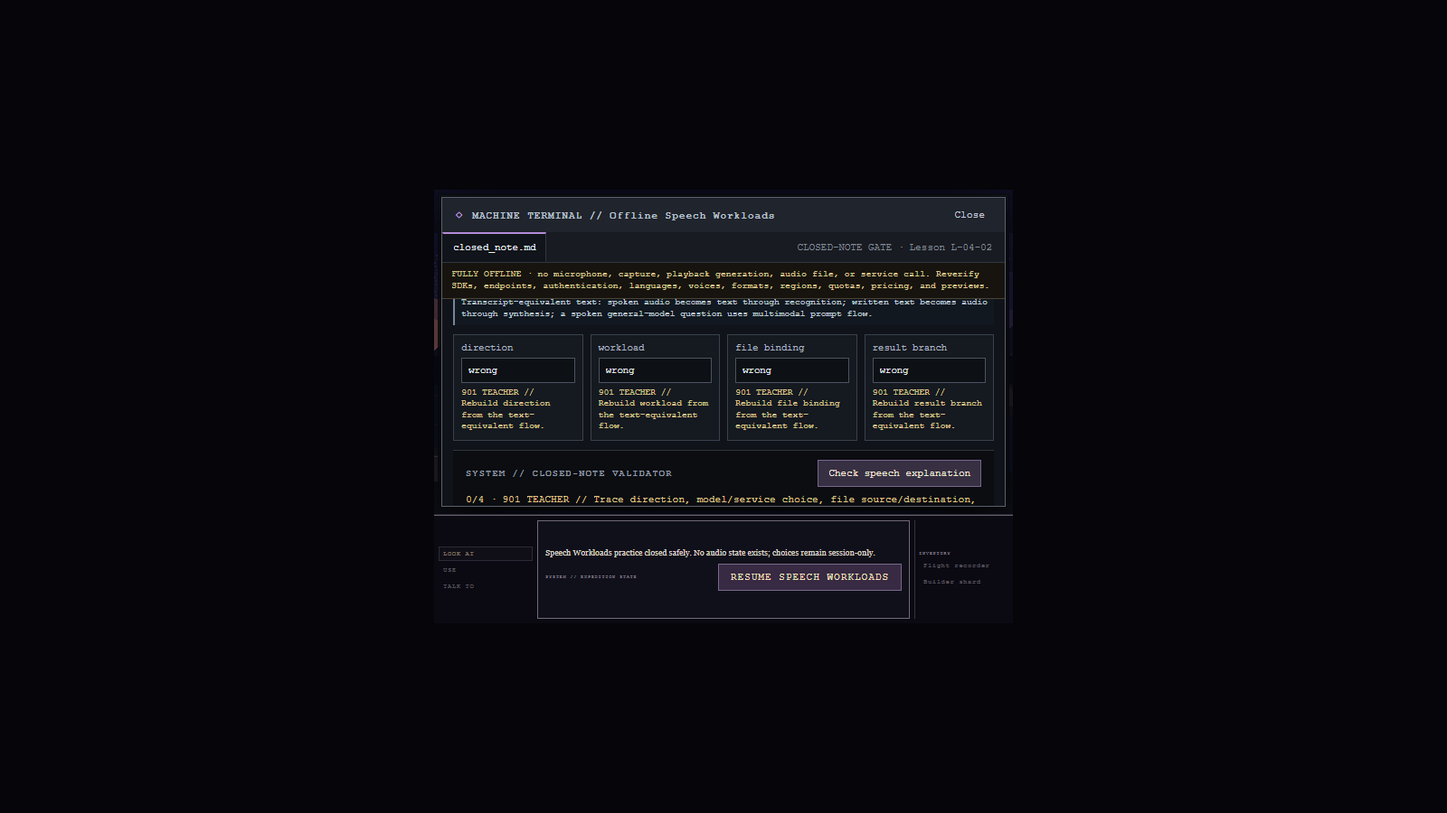
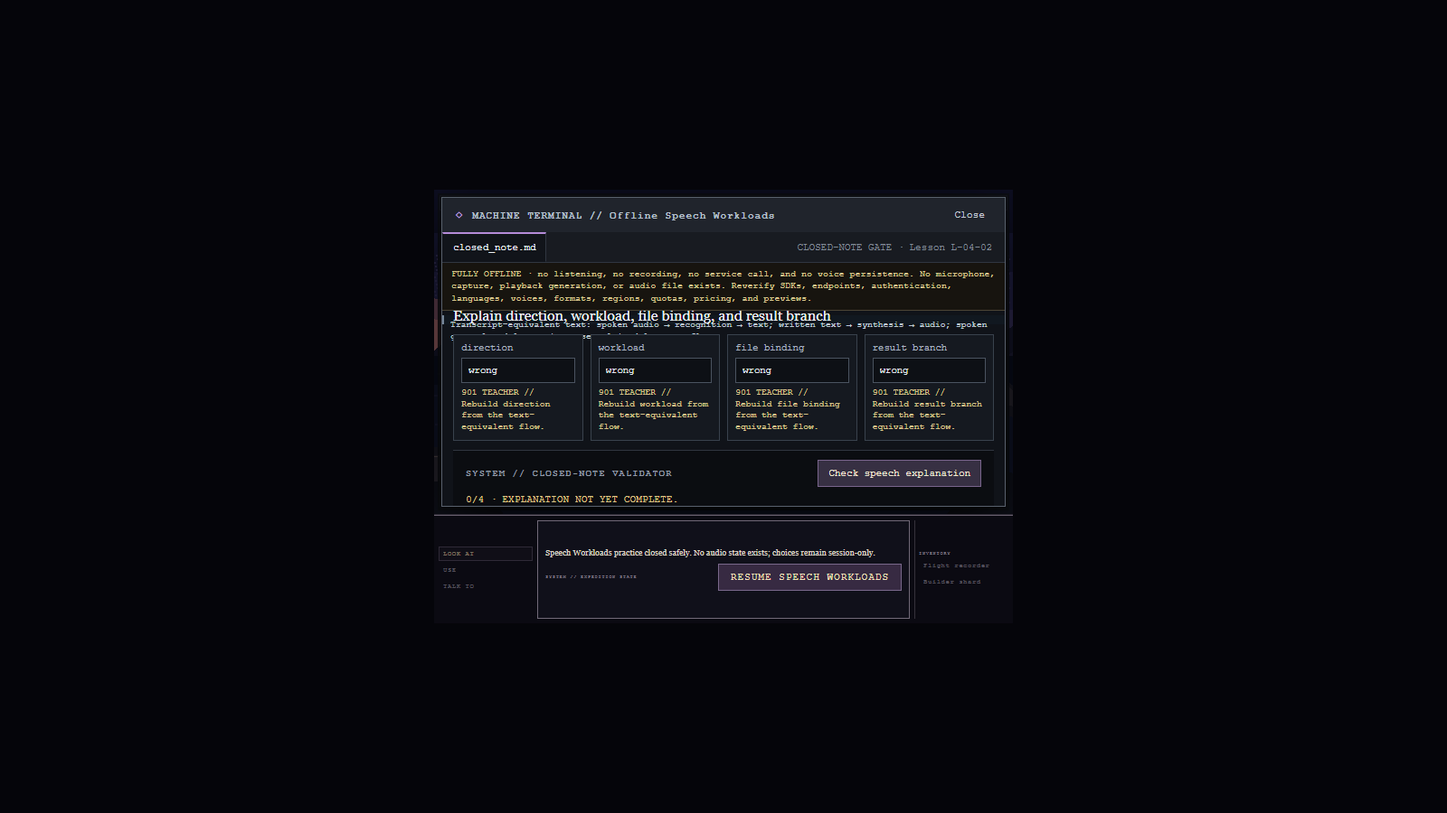
Round 14 step 5 Exercise Agent checkpoint

diff --git a/horizon-archive-game/src/App.jsx b/horizon-archive-game/src/App.jsx
@@ -147,12 +147,13 @@ import {
 import {
   evaluateSpeechExplanation,
   evaluateSpeechScenario,
+  getSpeechExplanationFeedback,
+  getSpeechFeedback,
   getSpeechOptions,
   sanitizeSpeechEvidence,
   speechDimensions,
   speechExplanationDimensions,
   speechPrimaryScenarios,
-  speechRemediation,
   speechTransferScenarios,
   speechWorkloadExercise,
   updateSpeechEvidence,
@@ -393,6 +394,7 @@ export function App() {
   const focusContinueAfterControlRef = useRef(false);
   const focusContinueAfterClientRef = useRef(false);
   const focusContinueAfterTextRef = useRef(false);
+  const focusContinueAfterSpeechRef = useRef(false);
 
   function setDialogue(text, owner = "pilot") {
     setDialogueText(text);
@@ -481,6 +483,12 @@ export function App() {
     continueButtonRef.current?.focus({ preventScroll: true });
   }, [terminalOpen, pendingAdvance, textAnalysisEvidence?.masteryStatus]);
 
+  useLayoutEffect(() => {
+    if (!focusContinueAfterSpeechRef.current || terminalOpen || !pendingAdvance || speechEvidence?.masteryStatus !== "mastered") return;
+    focusContinueAfterSpeechRef.current = false;
+    continueButtonRef.current?.focus({ preventScroll: true });
+  }, [terminalOpen, pendingAdvance, speechEvidence?.masteryStatus]);
+
   function beginNewGame() {
     localStorage.removeItem(SAVE_KEY);
     setSceneIndex(0);
@@ -553,6 +561,7 @@ export function App() {
     if (saved.textAnalysisEvidence?.masteryStatus === "mastered") focusContinueAfterTextRef.current = true;
     setTextAnalysisEvidence(saved.textAnalysisEvidence);
     setTextAnalysisSession(null);
+    if (saved.speechEvidence?.masteryStatus === "mastered") focusContinueAfterSpeechRef.current = true;
     setSpeechEvidence(saved.speechEvidence);
     setSpeechSession(null);
     setResponsibleAIEvidence(saved.responsibleAIEvidence);
@@ -1208,7 +1217,7 @@ export function App() {
   function advanceSpeech() { if (!speechSession.result?.passed) return; const scenarios = speechSession.form === "transfer" ? speechTransferScenarios : speechPrimaryScenarios; if (speechSession.index === scenarios.length - 1) { if (speechSession.form === "transfer") { setSpeechEvidence((previous) => updateSpeechEvidence(previous, { form: "explanation", masteryStatus: "transfer_complete", clearMisconceptionTags: true })); setSpeechSession({ ...speechSession, form: "explanation", phase: "explanation", result: null, hintLevel: 0 }); } else setSpeechSession({ ...speechSession, complete: true }); return; } setSpeechSession({ ...speechSession, index: speechSession.index + 1, response: { decision: "", reason: "" }, result: null, hintLevel: 0 }); }
   function acknowledgeSpeechPrimary() { if (!speechSession?.complete || !speechEvidence?.confidence) return; setSpeechEvidence((previous) => updateSpeechEvidence(previous, { form: "transfer", masteryStatus: "primary_complete", clearMisconceptionTags: true })); setSpeechSession(null); setTerminalOpen(false); setRuinsTerminalKind(null); setDialogue("Speech Workloads primary form complete at 12 of 12. Fresh transfer and closed-note explanation remain.", "teacher"); }
   function checkSpeechExplanation(event) { event.preventDefault(); const result = evaluateSpeechExplanation(speechSession.explanationResponse); setSpeechSession({ ...speechSession, explanationResult: result }); setSpeechEvidence((previous) => updateSpeechEvidence(previous, { form: "explanation", scenarioId: "explanation", correctness: result.correctness, incrementAttempt: true, masteryStatus: "transfer_complete" })); }
-  function acknowledgeSpeechMastery() { if (!speechSession?.explanationResult?.passed || !speechSession.ownershipConfirmed || !speechEvidence?.confidence) return; focusContinueAfterClientRef.current = true; setSpeechEvidence((previous) => updateSpeechEvidence(previous, { form: "explanation", masteryStatus: "mastered", clearMisconceptionTags: true })); setSpeechSession(null); setTerminalOpen(false); setRuinsTerminalKind(null); setDialogue("Speech Workloads mastery confirmed: both 12-of-12 forms and closed-note explanation are complete.", "teacher"); }
+  function acknowledgeSpeechMastery() { if (!speechSession?.explanationResult?.passed || !speechSession.ownershipConfirmed || !speechEvidence?.confidence) return; focusContinueAfterSpeechRef.current = true; setSpeechEvidence((previous) => updateSpeechEvidence(previous, { form: "explanation", masteryStatus: "mastered", clearMisconceptionTags: true })); setSpeechSession(null); setTerminalOpen(false); setRuinsTerminalKind(null); setDialogue("Speech Workloads mastery confirmed: both 12-of-12 forms and closed-note explanation are complete.", "teacher"); }
 
   function validateEvidenceOutput(event) {
     event.preventDefault();
@@ -2057,12 +2066,12 @@ export function App() {
         )}
         {terminalOpen && scene.id === "ruins" && ruinsTerminalKind === "speech-workloads" && speechSession && (
           <TerminalShell exerciseId={speechWorkloadExercise.exercise_id} title="Offline Speech Workloads" filename={speechSession.phase === "explanation" ? "closed_note.md" : `${speechSession.form}_speech.json`} lessonId={speechWorkloadExercise.lesson_id} statusText={speechSession.phase === "explanation" ? "CLOSED-NOTE GATE" : `${speechSession.form.toUpperCase()} ${speechSession.index + 1}/6`} closeLabel="Exit Speech Workloads" restoreFocusTo={terminalTriggerRef.current} onClose={exitSpeechWorkloads}>
-            <section className="model-choice-workspace speech-workspace"><p className="model-choice-boundary">FULLY OFFLINE · no microphone, capture, playback generation, audio file, or service call. Reverify SDKs, endpoints, authentication, languages, voices, formats, regions, quotas, pricing, and previews.</p>
+            <section className="model-choice-workspace speech-workspace"><p id="speech-offline-warning" className="model-choice-boundary" role="note">FULLY OFFLINE · no listening, no recording, no service call, and no voice persistence. No microphone, capture, playback generation, or audio file exists. Reverify SDKs, endpoints, authentication, languages, voices, formats, regions, quotas, pricing, and previews.</p><p id="speech-transcript-equivalent" className="speech-transcript">Transcript-equivalent text: spoken audio → recognition → text; written text → synthesis → audio; spoken general-model questions use multimodal prompt flow.</p>
               {speechSession.phase === "explanation" ? (
-                <form className="model-choice-form" onSubmit={checkSpeechExplanation}><header><p className="pane-label">PILOT // CLOSED-NOTE SPEECH-FLOW OWNER</p><h2>Explain direction, workload, file binding, and result branch</h2><p className="speech-transcript">Transcript-equivalent text: spoken audio becomes text through recognition; written text becomes audio through synthesis; a spoken general-model question uses multimodal prompt flow.</p></header><div className="model-choice-fields speech-explanation">{speechExplanationDimensions.map((dimension) => { const fieldResult = speechSession.explanationResult?.correctness[dimension]; const id = `speech-explanation-${dimension}-feedback`; return <label key={dimension}><span>{dimension.replaceAll("_", " ")}</span><input aria-label={`Closed-note speech ${dimension}`} aria-invalid={speechSession.explanationResult ? !fieldResult : undefined} aria-describedby={speechSession.explanationResult ? id : undefined} autoComplete="off" value={speechSession.explanationResponse[dimension]} onChange={(event) => setSpeechSession({ ...speechSession, explanationResponse: { ...speechSession.explanationResponse, [dimension]: event.target.value }, explanationResult: null, ownershipConfirmed: false })} />{speechSession.explanationResult && <small id={id}>{fieldResult ? "SYSTEM // Dimension confirmed." : `901 TEACHER // Rebuild ${dimension.replaceAll("_", " ")} from the text-equivalent flow.`}</small>}</label>; })}</div><section className="terminal-console model-choice-output"><div className="console-heading-row"><strong>SYSTEM // CLOSED-NOTE VALIDATOR</strong><button className="run-action" type="submit" disabled={speechExplanationDimensions.some((key) => !speechSession.explanationResponse[key])}>Check speech explanation</button></div><div className={speechSession.explanationResult ? "console-feedback active" : "console-feedback"} role="status" aria-live="polite">{speechSession.explanationResult ? `${speechSession.explanationResult.score}/4 · ${speechSession.explanationResult.passed ? "Complete speech-flow explanation confirmed." : "901 TEACHER // Trace direction, model/service choice, file source/destination, and cancellation."}` : "No audio, path, transcript, prompt, service response, or answer choice is shown."}</div>{speechSession.explanationResult?.passed && <><label className="ownership-confirmation"><input type="checkbox" checked={speechSession.ownershipConfirmed} onChange={(event) => setSpeechSession({ ...speechSession, ownershipConfirmed: event.target.checked })} />I produced this speech-flow explanation myself without notes.</label><fieldset className="confidence-group"><legend>Confidence after both forms</legend>{["low", "medium", "high"].map((value) => <label key={value}><input type="radio" name="speech-confidence" checked={speechEvidence?.confidence === value} onChange={() => setSpeechEvidence((previous) => updateSpeechEvidence(previous, { confidence: value }))} />{value}</label>)}</fieldset><button className="confirm-action" type="button" disabled={!speechSession.ownershipConfirmed || !speechEvidence?.confidence} onClick={acknowledgeSpeechMastery}>Acknowledge strict mastery</button></>}</section></form>
+                <form className="model-choice-form" onSubmit={checkSpeechExplanation}><header><p className="pane-label">PILOT // CLOSED-NOTE SPEECH-FLOW OWNER</p><h2>Explain direction, workload, file binding, and result branch</h2></header><div className="model-choice-fields speech-explanation">{speechExplanationDimensions.map((dimension) => { const fieldResult = speechSession.explanationResult?.correctness[dimension]; const id = `speech-explanation-${dimension}-feedback`; return <label key={dimension}><span>{dimension.replaceAll("_", " ")}</span><input aria-label={`Closed-note speech ${dimension}`} aria-invalid={speechSession.explanationResult ? !fieldResult : undefined} aria-describedby={speechSession.explanationResult ? id : undefined} autoComplete="off" value={speechSession.explanationResponse[dimension]} onChange={(event) => setSpeechSession({ ...speechSession, explanationResponse: { ...speechSession.explanationResponse, [dimension]: event.target.value }, explanationResult: null, ownershipConfirmed: false })} />{speechSession.explanationResult && <small id={id}>{fieldResult ? "SYSTEM // Dimension confirmed." : `901 TEACHER // Rebuild ${dimension.replaceAll("_", " ")} from the text-equivalent flow.`}</small>}</label>; })}</div><section className="terminal-console model-choice-output"><div className="console-heading-row"><strong>SYSTEM // CLOSED-NOTE VALIDATOR</strong><button className="run-action" type="submit" disabled={speechExplanationDimensions.some((key) => !speechSession.explanationResponse[key])}>Check speech explanation</button></div><div className={speechSession.explanationResult ? "console-feedback active" : "console-feedback"} role="status" aria-live="polite">{getSpeechExplanationFeedback(speechSession.explanationResult).systemScore}</div>{getSpeechExplanationFeedback(speechSession.explanationResult).teacherRemediation && <p className="teacher-remediation"><strong>901 TEACHER // DIRECTION AND CANCELLATION REMEDIATION</strong><span>{getSpeechExplanationFeedback(speechSession.explanationResult).teacherRemediation}</span></p>}{speechSession.explanationResult?.passed && <><label className="ownership-confirmation"><input type="checkbox" checked={speechSession.ownershipConfirmed} onChange={(event) => setSpeechSession({ ...speechSession, ownershipConfirmed: event.target.checked })} />I produced this speech-flow explanation myself without notes.</label><fieldset className="confidence-group"><legend>Confidence after both forms</legend>{["low", "medium", "high"].map((value) => <label key={value}><input type="radio" name="speech-confidence" checked={speechEvidence?.confidence === value} onChange={() => setSpeechEvidence((previous) => updateSpeechEvidence(previous, { confidence: value }))} />{value}</label>)}</fieldset><button className="confirm-action" type="button" disabled={!speechSession.ownershipConfirmed || !speechEvidence?.confidence} onClick={acknowledgeSpeechMastery}>Acknowledge strict mastery</button></>}</section></form>
               ) : speechSession.complete ? (
                 <section className="workload-summary"><p className="pane-label">901 TEACHER // PRIMARY FORM COMPLETE</p><h2>12 / 12 dimensions</h2><p>Recognition, synthesis, spoken multimodal prompts, input/output files, and cancellation handling pass. Fresh transfer and closed-note explanation remain.</p><fieldset className="confidence-group"><legend>Confidence after primary form</legend>{["low", "medium", "high"].map((value) => <label key={value}><input type="radio" name="speech-primary-confidence" checked={speechEvidence?.confidence === value} onChange={() => setSpeechEvidence((previous) => updateSpeechEvidence(previous, { confidence: value }))} />{value}</label>)}</fieldset><button className="confirm-action" type="button" disabled={!speechEvidence?.confidence} onClick={acknowledgeSpeechPrimary}>Acknowledge primary form</button></section>
-              ) : (() => { const scenarios = speechSession.form === "transfer" ? speechTransferScenarios : speechPrimaryScenarios; const scenario = scenarios[speechSession.index]; const options = getSpeechOptions(scenario.id, speechSession.form); return <form className="model-choice-form" onSubmit={checkSpeech}><header><p className="pane-label">{speechSession.form === "transfer" ? "FRESH TRANSFER" : "PRIMARY"} · PILOT // SPEECH-FLOW OWNER · {scenario.id}</p><p className="model-choice-layer-labels">AUDIO → TEXT · TEXT → AUDIO · SPOKEN MULTIMODAL PROMPT · RESULT/CANCELLATION</p><h2>{scenario.prompt}</h2><p className="speech-transcript">Transcript-equivalent scenario text: {scenario.prompt}</p></header><div className="model-choice-fields">{speechDimensions.map((dimension) => { const fieldResult = speechSession.result?.correctness[dimension]; const id = `speech-${dimension}-feedback`; return <label key={dimension}><span>{dimension}</span><select aria-label={`Speech ${dimension}`} aria-invalid={speechSession.result ? !fieldResult : undefined} aria-describedby={speechSession.result ? id : undefined} value={speechSession.response[dimension]} onChange={(event) => setSpeechSession({ ...speechSession, response: { ...speechSession.response, [dimension]: event.target.value }, result: null })}><option value="">Choose one</option>{options[dimension].map((value) => <option key={value} value={value}>{formatChoice(value)}</option>)}</select>{speechSession.result && <small id={id}>{fieldResult ? "SYSTEM // Correct." : `901 TEACHER // Review the ${dimension} from direction, file binding, and result reason.`}</small>}</label>; })}</div><section className="terminal-console model-choice-output"><div className="console-heading-row"><strong>SYSTEM // STRICT 12-DIMENSION VALIDATOR</strong><button className="run-action" type="submit" disabled={speechDimensions.some((key) => !speechSession.response[key])}>Check speech choice</button></div><div className={speechSession.result ? "console-feedback active" : "console-feedback"} role="status" aria-live="polite">{speechSession.result ? `${speechSession.result.score}/2 · ${speechSession.result.passed ? "Choice confirmed." : speechRemediation(scenario, speechSession.result, speechSession.hintLevel)}` : "Choose capability first, then source/destination and success/cancellation handling."}</div>{speechSession.result && !speechSession.result.passed && <button className="hint-action" type="button" disabled={speechSession.hintLevel >= 3} onClick={revealSpeechHint}>Reveal next speech-flow contrast</button>}{speechSession.result?.passed && <button className="confirm-action" type="button" onClick={advanceSpeech}>{speechSession.index === 5 ? (speechSession.form === "transfer" ? "Begin closed-note explanation" : "View primary result") : "Next scenario"}</button>}</section></form>; })()}
+              ) : (() => { const scenarios = speechSession.form === "transfer" ? speechTransferScenarios : speechPrimaryScenarios; const scenario = scenarios[speechSession.index]; const options = getSpeechOptions(scenario.id, speechSession.form); const feedback = getSpeechFeedback(scenario, speechSession.result, speechSession.hintLevel); return <form className="model-choice-form" onSubmit={checkSpeech}><header><p className="pane-label">{speechSession.form === "transfer" ? "FRESH TRANSFER" : "PRIMARY"} · PILOT // SPEECH-FLOW OWNER · {scenario.id}</p><p className="model-choice-layer-labels">AUDIO → TEXT · TEXT → AUDIO · SPOKEN MULTIMODAL PROMPT · RESULT/CANCELLATION</p><h2>{scenario.prompt}</h2><p className="speech-transcript">Transcript-equivalent scenario text: {scenario.prompt}</p></header><div className="model-choice-fields">{speechDimensions.map((dimension) => { const fieldResult = speechSession.result?.correctness[dimension]; const id = `speech-${dimension}-feedback`; return <label key={dimension}><span>{dimension}</span><select aria-label={`Speech ${dimension}`} aria-invalid={speechSession.result ? !fieldResult : undefined} aria-describedby={speechSession.result ? id : undefined} value={speechSession.response[dimension]} onChange={(event) => setSpeechSession({ ...speechSession, response: { ...speechSession.response, [dimension]: event.target.value }, result: null })}><option value="">Choose one</option>{options[dimension].map((value) => <option key={value} value={value}>{formatChoice(value)}</option>)}</select>{speechSession.result && <small id={id}>{fieldResult ? "SYSTEM // Correct." : `901 TEACHER // Review the ${dimension} from direction, file binding, and result reason.`}</small>}</label>; })}</div><section className="terminal-console model-choice-output"><div className="console-heading-row"><strong>SYSTEM // STRICT 12-DIMENSION VALIDATOR</strong><button className="run-action" type="submit" disabled={speechDimensions.some((key) => !speechSession.response[key])}>Check speech choice</button></div><div className={speechSession.result ? "console-feedback active" : "console-feedback"} role="status" aria-live="polite">{feedback.systemScore}</div>{feedback.teacherRemediation && <p className="teacher-remediation"><strong>901 TEACHER // SPEECH-FLOW REMEDIATION</strong><span>{feedback.teacherRemediation}</span></p>}{speechSession.result && !speechSession.result.passed && <button className="hint-action" type="button" disabled={speechSession.hintLevel >= 3} onClick={revealSpeechHint}>Reveal next speech-flow contrast</button>}{speechSession.result?.passed && <button className="confirm-action" type="button" onClick={advanceSpeech}>{speechSession.index === 5 ? (speechSession.form === "transfer" ? "Begin closed-note explanation" : "View primary result") : "Next scenario"}</button>}</section></form>; })()}
             </section>
           </TerminalShell>
         )}

diff --git a/horizon-archive-game/src/speechWorkloadExercise.js b/horizon-archive-game/src/speechWorkloadExercise.js
@@ -9,6 +9,8 @@ export function evaluateSpeechScenario(id, response, form = id?.startsWith("T") 
 function norm(v) { return String(v ?? "").trim().toLowerCase().replace(/[^a-z0-9]+/g, "_").replace(/^_|_$/g, ""); }
 export function evaluateSpeechExplanation(response) { const e = { direction: "spoken_audio_to_text_is_recognition_text_to_audio_is_synthesis", workload: "spoken_general_model_question_is_multimodal_prompt_flow", file_binding: "recognition_reads_input_file_synthesis_writes_output_file", result_branch: "inspect_result_reason_handle_success_or_cancellation" }; const correctness = Object.fromEntries(speechExplanationDimensions.map((k) => [k, norm(response[k]) === e[k]])); return { correctness, score: Object.values(correctness).filter(Boolean).length, passed: Object.values(correctness).every(Boolean) }; }
 export function speechRemediation(s, r, l) { const missed = speechDimensions.filter((k) => !r.correctness[k]); if (l <= 1) return `Review ${missed.join(" and ")}: name input modality and required output.`; if (l === 2) return `Contrast Speech direction with deployed multimodal interaction for this ${s.topic.replaceAll("_", " ")} card.`; return "Trace input-file versus output-file direction, then branch on success or cancellation."; }
+export function getSpeechFeedback(s, r, l) { if (!r) return { systemScore: "Awaiting both speech-flow dimensions.", teacherRemediation: null }; return { systemScore: `${r.score}/2 · ${r.passed ? "CHOICE PASS · both dimensions confirmed." : "CHOICE NOT YET COMPLETE."}`, teacherRemediation: r.passed ? null : speechRemediation(s, r, l) }; }
+export function getSpeechExplanationFeedback(r) { if (!r) return { systemScore: "Awaiting the learner's four-part speech flow.", teacherRemediation: null }; return { systemScore: `${r.score}/4 · ${r.passed ? "EXPLANATION PASS · all four dimensions confirmed." : "EXPLANATION NOT YET COMPLETE."}`, teacherRemediation: r.passed ? null : "Trace direction, model/service choice, file source/destination, and success or cancellation." }; }
 function complete(c, scenarios) { return scenarios.every((s) => speechDimensions.every((k) => c[s.id]?.[k] === true)); }
 export function sanitizeSpeechEvidence(v) { if (!v || typeof v !== "object" || v.exerciseId !== exerciseAsset.exercise_id) return null; const dimensionCorrectness = {}; for (const s of [...all, { id: "explanation", dimensions: speechExplanationDimensions }]) { const keys = s.dimensions || speechDimensions; if (v.dimensionCorrectness?.[s.id]) dimensionCorrectness[s.id] = Object.fromEntries(keys.filter((k) => typeof v.dimensionCorrectness[s.id][k] === "boolean").map((k) => [k, v.dimensionCorrectness[s.id][k]])); } const strict = complete(dimensionCorrectness, speechPrimaryScenarios) && complete(dimensionCorrectness, speechTransferScenarios) && speechExplanationDimensions.every((k) => dimensionCorrectness.explanation?.[k] === true); let masteryStatus = ["in_progress", "remediation_required", "primary_complete", "transfer_complete", "mastered"].includes(v.masteryStatus) ? v.masteryStatus : "in_progress"; if (masteryStatus === "mastered" && !strict) masteryStatus = complete(dimensionCorrectness, speechTransferScenarios) ? "transfer_complete" : complete(dimensionCorrectness, speechPrimaryScenarios) ? "primary_complete" : "in_progress"; return { exerciseId: exerciseAsset.exercise_id, lessonId: exerciseAsset.lesson_id, activityId: exerciseAsset.activity_id, assessmentIds: [...exerciseAsset.assessment_ids], objectiveIds: [...exerciseAsset.objective_ids], skillIds: [...exerciseAsset.skill_ids], form: ["primary", "transfer", "explanation"].includes(v.form) ? v.form : "primary", dimensionCorrectness, attemptCount: Math.min(99, Math.max(0, Number.isInteger(v.attemptCount) ? v.attemptCount : 0)), hintLevel: Math.min(3, Math.max(0, Number.isInteger(v.hintLevel) ? v.hintLevel : 0)), confidence: ["low", "medium", "high"].includes(v.confidence) ? v.confidence : null, misconceptionTags: Array.isArray(v.misconceptionTags) ? [...new Set(v.misconceptionTags.filter((t) => validTags.has(t)))] : [], masteryStatus }; }
 export function updateSpeechEvidence(previous, changes = {}) { const safe = sanitizeSpeechEvidence(previous) || sanitizeSpeechEvidence({ exerciseId: exerciseAsset.exercise_id }); const dimensionCorrectness = { ...safe.dimensionCorrectness }; if (changes.scenarioId && changes.correctness) dimensionCorrectness[changes.scenarioId] = changes.correctness; return sanitizeSpeechEvidence({ ...safe, form: changes.form || safe.form, dimensionCorrectness, attemptCount: safe.attemptCount + (changes.incrementAttempt ? 1 : 0), hintLevel: Math.max(safe.hintLevel, changes.hintLevel || 0), confidence: changes.confidence || safe.confidence, misconceptionTags: changes.clearMisconceptionTags ? [] : [...safe.misconceptionTags, ...(changes.misconceptionTags || [])], masteryStatus: changes.masteryStatus || safe.masteryStatus }); }

diff --git a/horizon-archive-game/test/speechWorkloadExercise.test.js b/horizon-archive-game/test/speechWorkloadExercise.test.js
@@ -1,5 +1,7 @@
-import test from "node:test"; import assert from "node:assert/strict"; import primary from "../../curriculum/lessons/L-04-02/reference_primary_answers.json" with { type: "json" }; import transfer from "../../curriculum/lessons/L-04-02/reference_transfer_answers.json" with { type: "json" }; import { evaluateSpeechExplanation, evaluateSpeechScenario, sanitizeSpeechEvidence, speechPrimaryScenarios, speechTransferScenarios, updateSpeechEvidence } from "../src/speechWorkloadExercise.js";
+import test from "node:test"; import assert from "node:assert/strict"; import primary from "../../curriculum/lessons/L-04-02/reference_primary_answers.json" with { type: "json" }; import transfer from "../../curriculum/lessons/L-04-02/reference_transfer_answers.json" with { type: "json" }; import { evaluateSpeechExplanation, evaluateSpeechScenario, getSpeechExplanationFeedback, getSpeechFeedback, sanitizeSpeechEvidence, speechPrimaryScenarios, speechTransferScenarios, updateSpeechEvidence } from "../src/speechWorkloadExercise.js";
 test("both speech forms pass 12/12 with three workloads and safeguards", () => { for (const [form, scenarios, answers] of [["primary", speechPrimaryScenarios, primary], ["transfer", speechTransferScenarios, transfer]]) { assert.equal(scenarios.length, 6); assert.equal(scenarios.filter((s) => s.topic === "client_flow").length, 3); for (const s of scenarios) assert.equal(evaluateSpeechScenario(s.id, answers[s.id], form).score, 2); } });
 test("direction and cancellation remediate independently", () => { assert.deepEqual(evaluateSpeechScenario("P06", { decision: primary.P06.decision, reason: "assume_success" }, "primary").correctness, { decision: true, reason: false }); });
+test("System score remains neutral while Teacher owns direction and cancellation remediation", () => { const s = speechPrimaryScenarios.find((x) => x.id === "P06"); const f = getSpeechFeedback(s, evaluateSpeechScenario("P06", { decision: primary.P06.decision, reason: "assume_success" }, "primary"), 3); assert.equal(f.systemScore, "1/2 · CHOICE NOT YET COMPLETE."); assert.match(f.teacherRemediation, /input-file.*cancellation/i); });
+test("closed-note score and Teacher speech-flow guidance stay separate", () => { const f = getSpeechExplanationFeedback(evaluateSpeechExplanation({})); assert.equal(f.systemScore, "0/4 · EXPLANATION NOT YET COMPLETE."); assert.match(f.teacherRemediation, /direction.*cancellation/i); });
 test("closed-note explanation requires direction workload file and result", () => { assert.equal(evaluateSpeechExplanation({ direction: "spoken audio to text is recognition text to audio is synthesis", workload: "spoken general model question is multimodal prompt flow", file_binding: "recognition reads input file synthesis writes output file", result_branch: "wrong" }).score, 3); });
 test("strict evidence strips all audio and free text", () => { let e = updateSpeechEvidence(null, {}); for (const [form, scenarios, answers] of [["primary", speechPrimaryScenarios, primary], ["transfer", speechTransferScenarios, transfer]]) for (const s of scenarios) e = updateSpeechEvidence(e, { form, scenarioId: s.id, correctness: evaluateSpeechScenario(s.id, answers[s.id], form).correctness }); e = updateSpeechEvidence(e, { form: "explanation", scenarioId: "explanation", correctness: { direction: true, workload: true, file_binding: true, result_branch: true }, masteryStatus: "mastered" }); assert.equal(e.masteryStatus, "mastered"); const safe = sanitizeSpeechEvidence({ ...e, audioBytes: "private", audioPath: "private", transcriptText: "private", spokenPrompt: "private", freeFormExplanation: "private" }); for (const k of ["audioBytes", "audioPath", "transcriptText", "spokenPrompt", "freeFormExplanation"]) assert.equal(k in safe, false); });

diff --git a/Exercise Development/WORK_LOG.md b/Exercise Development/WORK_LOG.md
@@ -1,5 +1,13 @@
 # Exercise Agent Work Log
 
+## 2026-07-12 — EX-L0402 Speech Workloads continuity closure
+
+- **Outcome:** Separated neutral System results from 901 Teacher direction/file/cancellation remediation; closed-note prose remains Pilot-owned and completions Teacher-owned. No L-04-03/L-04-04 gameplay began.
+- **Safety/accessibility:** Every phase retains a semantic warning for offline/no listening/no recording/no service/no voice persistence and persistent transcript-equivalent text.
+- **Focus/contracts:** Dedicated Speech focus targets Continue after mastery and sanitized reload. Primary/transfer 12/12, four-part closed-note, sanitizer/privacy, canonical/narrow, and distinct captures remain intact.
+- **Validation:** 77/77 unit tests, build, L-04-02 self-test, both 12/12 references, full E2E with zero runtime errors, and diff check pass.
+- **Next action:** Player Agent should audit warning/transcript reading order and Continue focus before L-04-03/L-04-04.
+
 ## 2026-07-12 — L-04-02 Offline Speech Workloads complete Terminal gate
 
 - **Outcome:** Added `EX-L0402-SPEECH-WORKLOADS` as the mandatory offline Terminal after Text Analysis. Mastery requires packaged primary 12/12, fresh transfer 12/12, and a four-part closed-note direction/workload/file/result explanation. No L-04-03 gameplay was implemented.
